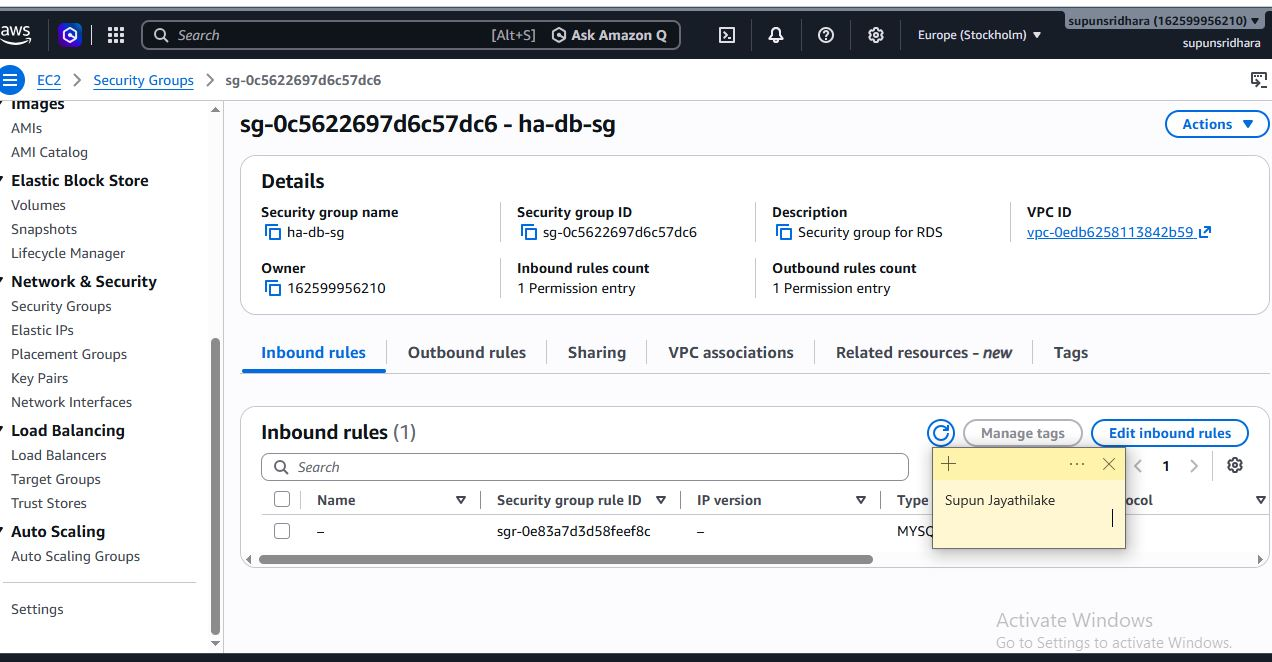
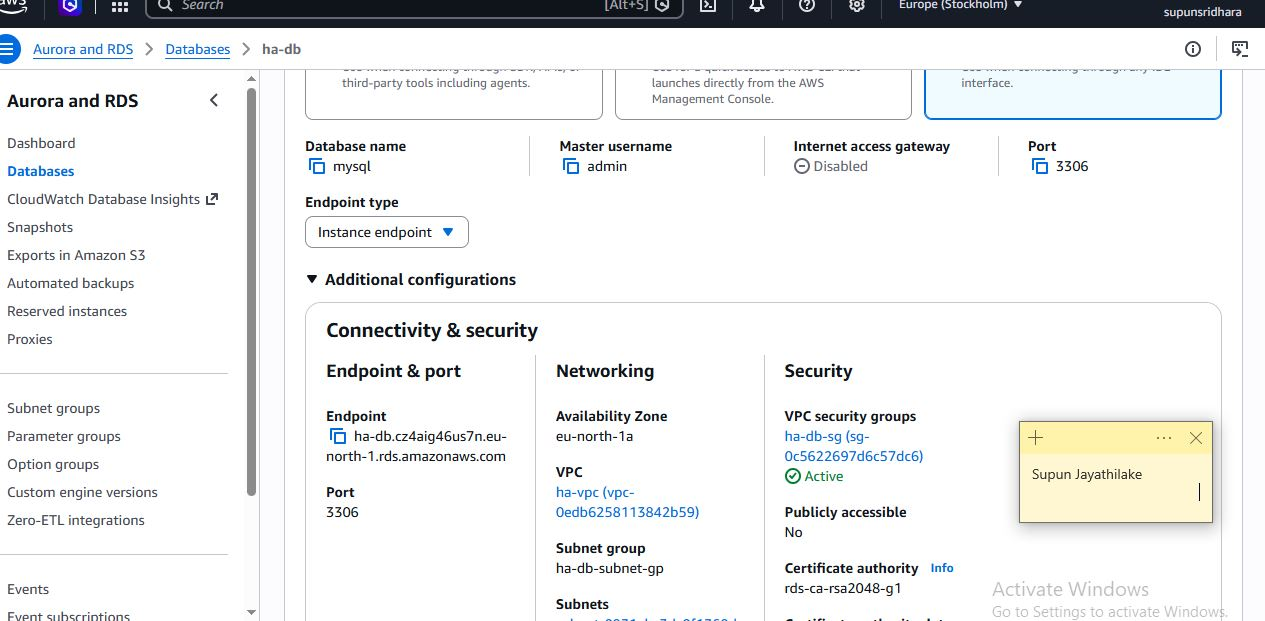
assignment 5 submission

diff --git a/week-06-aws-cloud/assignment-05-deploy-a-highly-available-two-tier-application-on-aws.md b/week-06-aws-cloud/assignment-05-deploy-a-highly-available-two-tier-application-on-aws.md
@@ -70,7 +70,7 @@ Create `ha-alb-sg` (HTTP public), `ha-web-sg` (HTTP only from `ha-alb-sg`, SSH f
 
 #### Screenshot 8 — RDS Security Group inbound rule showing the database port allowed only from the EC2 Security Group
 
-![alt text](658.JPG)
+![alt text](658-1.JPG)
 
 ---
 
@@ -84,7 +84,7 @@ Launch a private, Multi-AZ RDS database (MySQL or PostgreSQL) using the private 
 
 #### Screenshot 9 — RDS summary showing Multi-AZ = Yes and Publicly accessible = No
 
-Add your screenshot here.
+![alt text](659-1.JPG)
 
 ---
 
